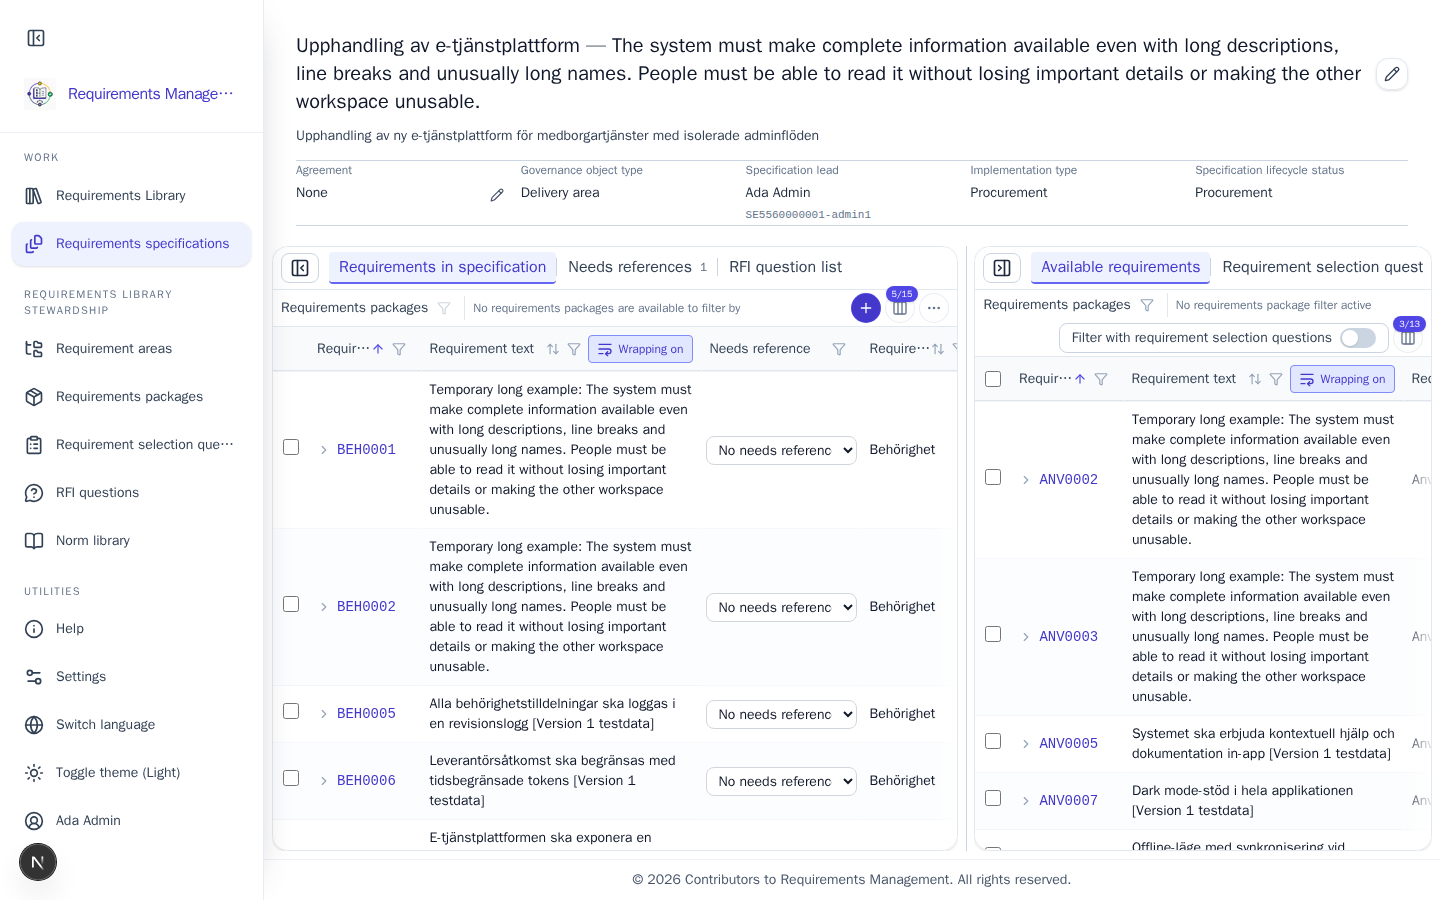
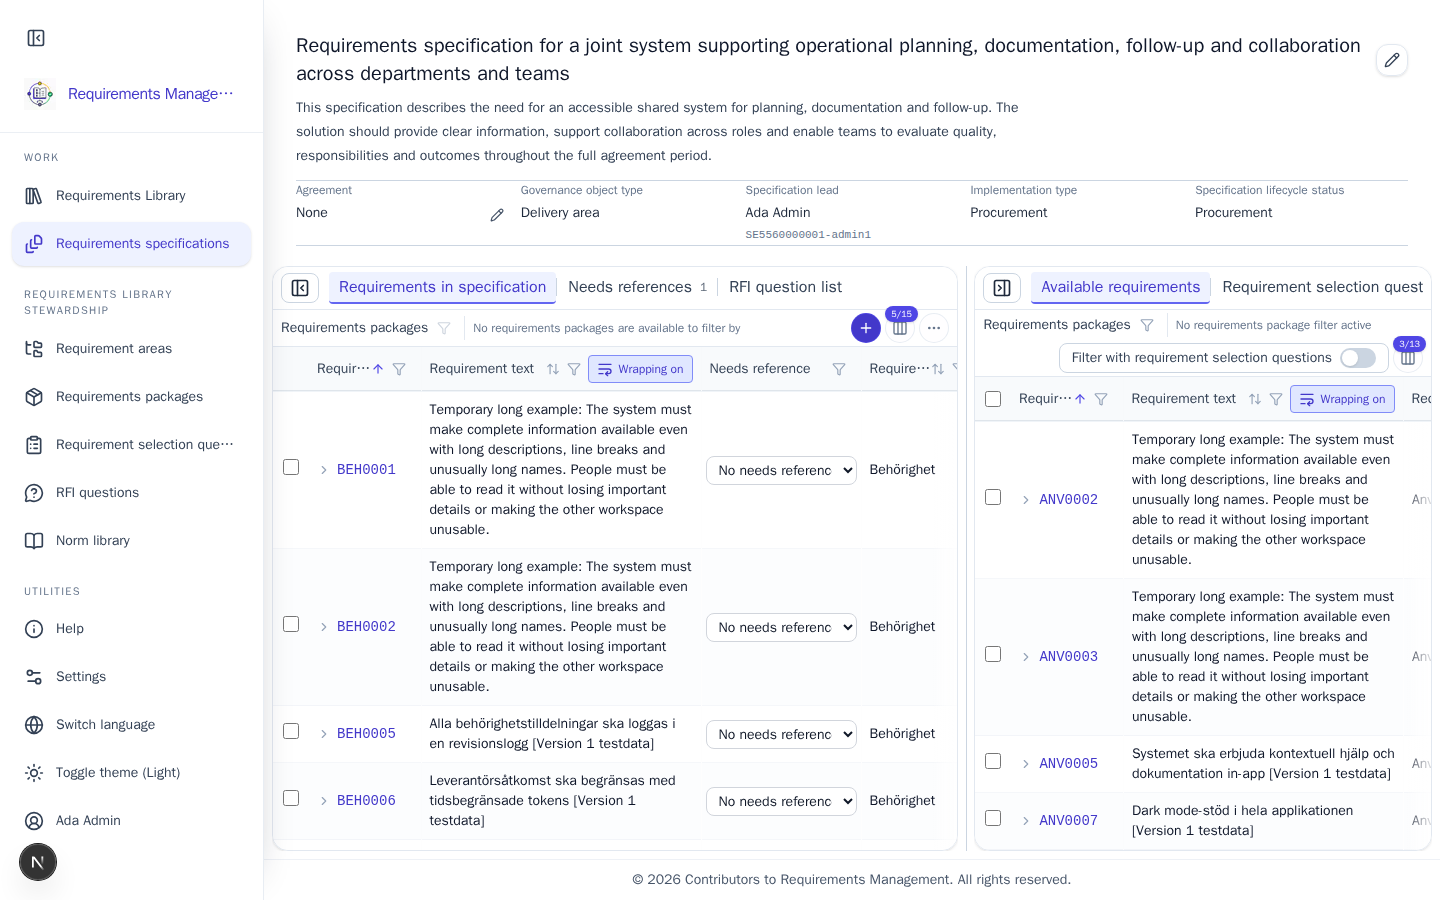
prototype: use agreed specification title and description lengths (#1352)

diff --git a/app/[locale]/specifications/[specificationId]/requirements-specification-detail-client.tsx b/app/[locale]/specifications/[specificationId]/requirements-specification-detail-client.tsx
@@ -540,6 +540,15 @@ export default function KravunderlagDetailClient({
   const prototypeLong = Boolean(
     prototypeVariant && searchParams.get('sample') === 'long',
   )
+  // Throwaway maximum-length header samples: title 150, description 300.
+  const prototypeTitle =
+    locale === 'sv'
+      ? 'Kravunderlag för upphandling av ett delat system för verksamhetens planering, dokumentation, uppföljning samt samspel mellan verksamheter och utförare'
+      : 'Requirements specification for a joint system supporting operational planning, documentation, follow-up and collaboration across departments and teams'
+  const prototypeDescription =
+    locale === 'sv'
+      ? 'Underlaget beskriver verksamhetens behov av ett gemensamt och tillgängligt stöd för planering, dokumentation och uppföljning. Lösningen ska ge tydlig information, förenkla samarbetet mellan berörda roller och göra det möjligt att följa upp kvalitet, ansvar och resultat under avtalets hela livscykel.'
+      : 'This specification describes the need for an accessible shared system for planning, documentation and follow-up. The solution should provide clear information, support collaboration across roles and enable teams to evaluate quality, responsibilities and outcomes throughout the full agreement period.'
   const prototypeText =
     locale === 'sv'
       ? 'Tillfälligt långt exempel: Systemet ska ge användaren tillgång till fullständig information även vid långa beskrivningar, radbrytningar och ovanligt långa benämningar.\nInformationen ska kunna läsas utan att viktiga delar försvinner eller att andra arbetsytor blir oanvändbara.'
@@ -2434,11 +2443,7 @@ export default function KravunderlagDetailClient({
     ],
   )
 
-  const specName = spec
-    ? prototypeLong
-      ? `${spec.name} — ${prototypeText.split(': ')[1]}`
-      : spec.name
-    : '…'
+  const specName = spec ? (prototypeLong ? prototypeTitle : spec.name) : '…'
   const canMutateSpecification =
     permissions.canEditContent === true ||
     permissions.canManageAssignments === true
@@ -3255,9 +3260,11 @@ export default function KravunderlagDetailClient({
                     </button>
                   ) : null}
                 </div>
-                {spec.businessNeedsReference && (
+                {(prototypeLong || spec.businessNeedsReference) && (
                   <p className="mt-2 max-w-3xl text-sm leading-6 text-secondary-700 dark:text-secondary-200">
-                    {spec.businessNeedsReference}
+                    {prototypeLong
+                      ? prototypeDescription
+                      : spec.businessNeedsReference}
                   </p>
                 )}
               </div>

diff --git a/app/[locale]/specifications/[specificationId]/prototype-review/README.md b/app/[locale]/specifications/[specificationId]/prototype-review/README.md
@@ -76,9 +76,11 @@ permanent list modes or a new manual column-resize feature.
 - Inside State & changes, **Mix header** selects A, B or C independently.
   For example, `?variant=A&header=C` combines the conventional table with
   inline metadata. Switching the main variant clears this override.
-- **Long text** temporarily replaces the title and the first two requirement
-  descriptions with multiline examples. It affects both the baseline and
-  proposals, never saves, and can be toggled off.
+- **Long text** temporarily replaces the title with exactly 150 characters
+  and the description below it with exactly 300 characters in both languages.
+  It also replaces the first two requirement descriptions with multiline
+  examples. It affects both the baseline and proposals, never saves, and can
+  be toggled off.
 - **Reset** restores the chosen variant's panel proportions and opens both
   panels. It also clears a mixed header selection.
 - **H** hides/shows the floating bar. Add `review=clean` for clean captures.
@@ -141,8 +143,9 @@ and filters without attempting to save business changes.
 
 ### 7. Long content, locales, themes and narrow screens
 
-Use Long text in both 0 and a proposal. Check the longer title and multiline
-requirement descriptions. The gallery links to English long-text captures.
+Use Long text in both 0 and a proposal. Check the 150-character title,
+300-character description below it and multiline requirement descriptions.
+The gallery links to English long-text captures.
 Check both 1440 × 900 and 1920 × 1080, navigation expanded/collapsed and
 light/dark themes. At 375 px, the panels stack rather than share a row.
 
